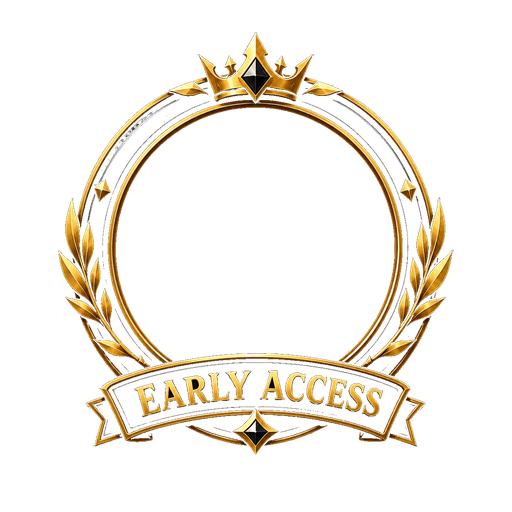
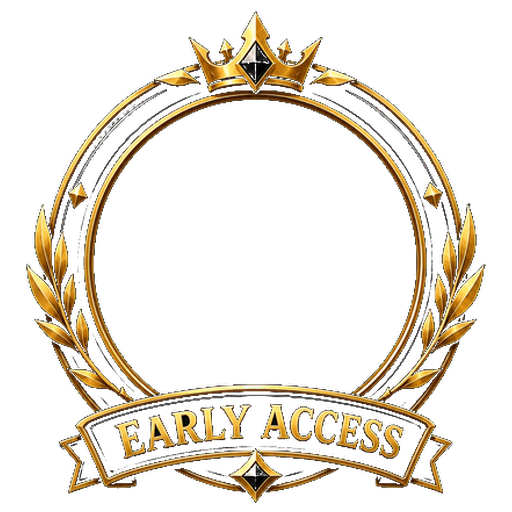
Add files via upload

Changed region(s): [[0.0312, 0.0312, 0.9688, 0.9688]]

diff --git a/app.js b/app.js
@@ -185,29 +185,50 @@ function renderRouletteHistory(){
 
 
 
+let FN_PUCHUN_BUSY=false;
 function puchun(){
-  const e=$("blackout");
-  if(e){
-    e.classList.add("puchun-active");
-    e.style.display="flex";
-  }
-  // The supplied 2.68s announcement is the only Puchun sound.
+  if(FN_PUCHUN_BUSY)return;
+  const e=$("blackout"),v=$("puchunVideo");
+  if(!e)return;
+  FN_PUCHUN_BUSY=true;
+  e.classList.add("puchun-active");
+  e.style.display="flex";
+  let finished=false;
+  const cleanup=()=>{
+    if(finished)return;
+    finished=true;
+    try{if(v){v.pause();v.currentTime=0;v.removeAttribute("data-playing")}}catch(_){ }
+    e.classList.remove("puchun-active");
+    e.style.display="none";
+    FN_PUCHUN_BUSY=false;
+    window.FN_PUCHUN_STOP=null;
+  };
+  window.FN_PUCHUN_STOP=cleanup;
+  const fallback=()=>{
+    if(finished)return;
+    try{
+      const au=new Audio("puchun_notice.mp3?v=4.2");
+      au.volume=.9;au.currentTime=0;au.play().catch(()=>{});
+    }catch(_){ }
+    setTimeout(cleanup,2900);
+  };
+  if(!v){fallback();return;}
   try{
-    const au=new Audio("puchun_notice.mp3?v=4.2");
-    au.volume=.9;
-    au.currentTime=0;
-    au.play().catch(()=>{});
-    au.addEventListener("ended",()=>{
-      if(e){e.classList.remove("puchun-active");e.style.display="none"}
-    },{once:true});
-    // Fallback in case mobile Safari does not fire ended.
-    setTimeout(()=>{
-      if(e){e.classList.remove("puchun-active");e.style.display="none"}
-    },2900);
-  }catch(err){
-    if(e){setTimeout(()=>{e.classList.remove("puchun-active");e.style.display="none"},2900)}
-  }
-  debugLog&&debugLog("AUDIO","PUCHUN",{file:"puchun_notice.mp3",blackout:true});
+    v.pause();v.currentTime=0;v.muted=false;v.volume=.9;
+    v.setAttribute("data-playing","1");
+    v.onended=cleanup;
+    v.onerror=()=>{v.onerror=null;fallback()};
+    const play=()=>{
+      if(finished)return;
+      try{
+        const p=v.play();
+        if(p&&typeof p.catch==="function")p.catch(()=>{v.onerror=null;fallback()});
+      }catch(_){v.onerror=null;fallback()}
+    };
+    setTimeout(play,120);
+    setTimeout(()=>{if(!finished)cleanup()},5000);
+  }catch(_){fallback()}
+  debugLog&&debugLog("AUDIO","PUCHUN",{file:"puchun_effect.mp4",blackout:true,video:true});
 }
 
 const CRASH_HISTORY_KEY="gb_crash_history_v1";
@@ -310,54 +331,63 @@ function renderCoinHistory(){
  el.innerHTML=rows.length?rows.map((x,i)=>`<div class="coin-history-row"><span>#${i+1} <small>${x.t||""}</small></span><b class="${x.win?"win":"lose"}">${String(x.side||"").toUpperCase()} • ${x.win?"WIN":"LOSE"}</b></div>`).join(""):`<div class="coin-history-empty">NO HISTORY</div>`;
 }
 function coinFlip(pick){
- if(window.GB_ACTION_BUSY)return;
- const b=wager($("bet")?.value);if(!b)return;
- const c=$("coin3d"),stage=$("coinFlipMotion"),res=$("res");
- if(!c||!stage||!res){window.GB_ACTION_BUSY=false;return}
- const head=c.querySelector(".coin-head"),tail=c.querySelector(".coin-tail");
- if(!head||!tail){window.GB_ACTION_BUSY=false;return}
- window.GB_ACTION_BUSY=true;
- const result=Math.random()<.5?"heads":"tails",win=result===pick;
- c.dataset.face="flipping"; c.style.transform="rotateY(0deg)";
- head.style.transform="rotateY(0deg) translateZ(2px)";
- tail.style.transform="rotateY(180deg) translateZ(2px)";
- head.style.opacity="1"; tail.style.opacity="1";
- head.style.visibility="visible"; tail.style.visibility="visible";
- stage.style.transform="translate3d(0,34px,0) scale(.92)";
- void stage.offsetWidth; res.textContent="FLIPPING…";
- const finalAngle=result==="tails"?2340:2160;
- const motion=stage.animate([
-  {transform:"translate3d(0,34px,0) scale(.92)"},
-  {transform:"translate3d(-34px,-20px,0) scale(1.02)"},
-  {transform:"translate3d(28px,-104px,0) scale(1.12)"},
-  {transform:"translate3d(-20px,-126px,0) scale(1.16)"},
-  {transform:"translate3d(22px,-66px,0) scale(1.09)"},
-  {transform:"translate3d(0,0,0) scale(1)"}
- ],{duration:2850,easing:"cubic-bezier(.15,.78,.17,1)",fill:"forwards"});
- const spin=c.animate([
-  {transform:"rotateY(0deg) rotateZ(-8deg)"},
-  {transform:"rotateY(720deg) rotateZ(8deg)"},
-  {transform:"rotateY(1440deg) rotateZ(-6deg)"},
-  {transform:`rotateY(${finalAngle}deg) rotateZ(0deg)`}
- ],{duration:2850,easing:"cubic-bezier(.15,.78,.17,1)",fill:"forwards"});
- sfx("flip");
- Promise.all([motion.finished,spin.finished]).then(()=>{
-  motion.cancel();spin.cancel();
-  c.dataset.face=result; c.style.transform=result==="tails"?"rotateY(180deg)":"rotateY(0deg)";
-  head.style.transform="rotateY(0deg) translateZ(2px)";
-  tail.style.transform="rotateY(180deg) translateZ(2px)";
-  head.style.opacity=result==="heads"?"1":"0"; tail.style.opacity=result==="tails"?"1":"0";
-  head.style.visibility=result==="heads"?"visible":"hidden"; tail.style.visibility=result==="tails"?"visible":"hidden";
-  res.textContent=`${result.toUpperCase()} — ${win?"WIN":"LOSE"}`;
-  writeCoinHistory({side:result,win});renderCoinHistory();
-  settle(b,win?b*2:0,"COIN TOSS");sfx(win?"win":"lose");
-  window.GB_ACTION_BUSY=false;
- }).catch(()=>{
-  try{motion.cancel();spin.cancel()}catch(_){}
-  c.dataset.face="heads"; c.style.transform="rotateY(0deg)";
-  head.style.opacity="1";head.style.visibility="visible";tail.style.opacity="0";tail.style.visibility="hidden";
-  window.GB_ACTION_BUSY=false;
- });
+  if(window.GB_ACTION_BUSY)return;
+  const b=wager($("bet")?.value);if(!b)return;
+  const c=$("coin3d"),stage=$("coinFlipMotion"),res=$("res");
+  if(!c||!stage||!res)return;
+  const head=c.querySelector(".coin-head"),tail=c.querySelector(".coin-tail");
+  if(!head||!tail)return;
+  window.GB_ACTION_BUSY=true;
+  const result=Math.random()<.5?"heads":"tails",win=result===pick;
+  let settled=false;
+  const resetBusy=()=>{window.GB_ACTION_BUSY=false};
+  const settleCoin=()=>{
+    if(settled)return;settled=true;
+    c.dataset.face=result;
+    c.style.transform=result==="tails"?"rotateY(180deg)":"rotateY(0deg)";
+    head.style.transform="rotateY(0deg) translateZ(58px)";
+    tail.style.transform="rotateY(180deg) translateZ(58px)";
+    head.style.opacity="1";tail.style.opacity="1";
+    head.style.visibility="visible";tail.style.visibility="visible";
+    res.textContent=`${result.toUpperCase()} — ${win?"WIN":"LOSE"}`;
+    writeCoinHistory({side:result,win});renderCoinHistory();
+    settle(b,win?b*2:0,"COIN TOSS");sfx(win?"win":"lose");resetBusy();
+  };
+  const failCoin=()=>{
+    if(settled)return;settled=true;
+    try{stage.getAnimations().forEach(x=>x.cancel());c.getAnimations().forEach(x=>x.cancel())}catch(_){ }
+    c.dataset.face="heads";c.style.transform="rotateY(0deg)";
+    head.style.transform="rotateY(0deg) translateZ(58px)";
+    tail.style.transform="rotateY(180deg) translateZ(58px)";
+    head.style.opacity="1";tail.style.opacity="1";
+    head.style.visibility="visible";tail.style.visibility="visible";
+    res.textContent="CHOOSE YOUR SIDE";resetBusy();
+  };
+  c.dataset.face="flipping";c.style.transform="rotateY(0deg)";
+  head.style.transform="rotateY(0deg) translateZ(58px)";
+  tail.style.transform="rotateY(180deg) translateZ(58px)";
+  head.style.opacity="1";tail.style.opacity="1";
+  head.style.visibility="visible";tail.style.visibility="visible";
+  stage.style.transform="translate3d(0,34px,0) scale(.92)";
+  void stage.offsetWidth;res.textContent="FLIPPING…";
+  const finalAngle=result==="tails"?1620:1440;
+  const motion=stage.animate([
+    {transform:"translate3d(0,34px,0) scale(.92)"},
+    {transform:"translate3d(-34px,-20px,0) scale(1.02)"},
+    {transform:"translate3d(28px,-104px,0) scale(1.12)"},
+    {transform:"translate3d(-20px,-126px,0) scale(1.16)"},
+    {transform:"translate3d(22px,-66px,0) scale(1.09)"},
+    {transform:"translate3d(0,0,0) scale(1)"}
+  ],{duration:2850,easing:"cubic-bezier(.15,.78,.17,1)",fill:"forwards"});
+  const spin=c.animate([
+    {transform:"rotateY(0deg) rotateZ(-8deg)"},
+    {transform:"rotateY(540deg) rotateZ(8deg)"},
+    {transform:"rotateY(1080deg) rotateZ(-6deg)"},
+    {transform:`rotateY(${finalAngle}deg) rotateZ(0deg)`}
+  ],{duration:2850,easing:"cubic-bezier(.15,.78,.17,1)",fill:"forwards"});
+  sfx("flip");
+  Promise.allSettled([motion.finished,spin.finished]).then(()=>settleCoin());
+  setTimeout(()=>{if(!settled)failCoin()},3600);
 }
 
 function pokerCard(c){return `<div class="poker-card">${c.r}${c.s}</div>`}
@@ -446,7 +476,7 @@ function openGame(g){
  try{if(typeof games[g]!=="function")throw new Error("Unknown game: "+g);games[g]();debugLog("GAME","Launch success",{game:g,token})}
  catch(e){debugLog("ERROR","Game launch failed",{game:g,error:String(e),stack:e.stack});$("modalContent").innerHTML=`<div class="game"><h2>GAME ERROR</h2><pre class="debug-error">${String(e.stack||e)}</pre></div>`}
 }
-function closeGame(){GB_GAME_TOKEN++;debugLog("RUNTIME","STOP",{game:GB_RUNTIME.game});window.GB_stopGameRuntime();$("modal").classList.add("hidden");const lobby=document.getElementById("appLobby");if(lobby)lobby.classList.remove("hidden");sfx("click")}
+function closeGame(){GB_GAME_TOKEN++;debugLog("RUNTIME","STOP",{game:GB_RUNTIME.game});window.GB_stopGameRuntime();if(window.FN_PUCHUN_BUSY&&typeof window.FN_PUCHUN_STOP==="function")window.FN_PUCHUN_STOP();$("modal").classList.add("hidden");const lobby=document.getElementById("appLobby");if(lobby)lobby.classList.remove("hidden");sfx("click")}
 function betbox(min=10,hideMax=false){
   const max=Math.max(min,S.coins||0);
   const step=max<=1000?10:max<=10000?100:500;
@@ -684,7 +714,7 @@ chohan(){
 coin(){
  $("gameBody").innerHTML=betbox()+`<div class="anim-game coin-game">
   <div class="anim-title">COIN TOSS</div>
-  <div class="coin-stage"><div id="coinFlipMotion" class="coin-flip-motion"><div id="coin3d" class="coin3d" data-face="heads"><div class="coin-face coin-head" aria-label="HEADS"><b>H</b><small>HEADS</small></div><div class="coin-face coin-tail" aria-label="TAILS"><b>T</b><small>TAILS</small></div></div></div></div>
+  <div class="coin-stage"><div id="coinFlipMotion" class="coin-flip-motion"><div id="coin3d" class="coin3d" data-face="heads"><div class="coin-edge" aria-hidden="true"></div><div class="coin-face coin-head" aria-label="HEADS"><b>H</b><small>HEADS</small></div><div class="coin-face coin-tail" aria-label="TAILS"><b>T</b><small>TAILS</small></div></div></div></div>
   <div class="coin-choices"><button onclick="coinFlip('heads')"><b>HEADS</b><small>GOLD SIDE</small></button><div class="coin-vs">VS</div><button onclick="coinFlip('tails')"><b>TAILS</b><small>BLACK SIDE</small></button></div>
   <div id="res" class="result coin-result">CHOOSE YOUR SIDE</div>
   <div class="coin-history"><div class="coin-history-head"><b>COIN FLIP HISTORY</b><small>LAST 5</small></div><div id="coinHistory"></div></div>
@@ -702,11 +732,12 @@ lottery(){
    <div id="lotteryResult" class="lottery-result">PRESS DRAW TO START</div>
   </div>
   <div class="lottery-prize-board">
-   <div class="lottery-board-title">PRIZE TABLE <small>TRUE DRAW ODDS</small></div>
-   <div class="lottery-prize-row jp"><span><b>JACKPOT</b><small>1 IN 2,000</small></span><strong>100,000</strong><em>0.05%</em></div>
-   <div class="lottery-prize-row gold"><span><b>GOLD</b><small>HIGH PRIZE</small></span><strong>10,000</strong><em>2.00%</em></div>
-   <div class="lottery-prize-row silver"><span><b>SILVER</b><small>SMALL PRIZE</small></span><strong>500</strong><em>13.00%</em></div>
-   <div class="lottery-prize-row lose"><span><b>MISS</b><small>NO PRIZE</small></span><strong>0</strong><em>84.95%</em></div>
+   <div class="lottery-board-title">当選確率の説明 <small>1回の抽選ごとの確率</small></div>
+   <div class="lottery-prize-row jp"><span><b>JACKPOT</b><small>2,000回に1回の割合</small></span><strong>100,000 COIN</strong><em>0.05%</em></div>
+   <div class="lottery-prize-row gold"><span><b>GOLD</b><small>1回の抽選で当たる確率</small></span><strong>10,000 COIN</strong><em>2.00%</em></div>
+   <div class="lottery-prize-row silver"><span><b>SILVER</b><small>1回の抽選で当たる確率</small></span><strong>500 COIN</strong><em>12.95%</em></div>
+   <div class="lottery-prize-row lose"><span><b>MISS</b><small>賞金なしになる確率</small></span><strong>0 COIN</strong><em>85.00%</em></div>
+   <div class="lottery-odds-note">※各数値は1回の抽選で、その結果になる確率です。累積確率ではありません。4つの結果を合計すると100.00%です。</div>
   </div>
   <div class="lottery-history"><div class="lottery-history-head"><b>RECENT DRAWS</b><small>LAST 5</small></div><div id="lotteryHistory"></div></div>
   <button class="lottery-draw" onclick="lottery()">DRAW LOTTERY</button>
@@ -1571,7 +1602,7 @@ window.addEventListener('fn-auth-changed',e=>{if(e.detail?.role==='admin')setTim
     content().querySelectorAll('.fn-admin-presets button').forEach(b=>b.onclick=()=>content().querySelector('#fnAdminAmount').value=b.dataset.a);content().querySelector('#fnAdminGrant').onclick=grant;
   }
   async function grant(){const c=content(),playerId=c.querySelector('#fnAdminPlayer').value.trim(),amount=Number(c.querySelector('#fnAdminAmount').value),note=c.querySelector('#fnAdminNote').value.trim();if(!playerId||!Number.isSafeInteger(amount)||amount===0){c.querySelector('#fnAdminBalance').textContent='INVALID INPUT';return}try{const d=await apiAdmin('/admin/grant',{method:'POST',body:JSON.stringify({playerId,amount,note})});c.querySelector('#fnAdminBalance').textContent='SUCCESS • BALANCE '+Number(d.balance).toLocaleString('ja-JP');if(playerId===FN_SERVER_PLAYER_ID){FN_SERVER_BALANCE=Number(d.balance);S.coins=FN_SERVER_BALANCE;localStorage.setItem(KEY,JSON.stringify(S));render()}}catch(e){c.querySelector('#fnAdminBalance').textContent='FAILED: '+e.message}}
-  async function items(){content().innerHTML='<h3>ITEM GRANT</h3><label>PLAYER NAME / ID</label><input id="fnItemPlayer" placeholder="PLAYER NAME or PLAYER ID"><label>ITEM</label><select id="fnItemId"><option value="frame:early_access">EARLY ACCESS FRAME</option><option value="frame:gold">GOLD FRAME</option><option value="frame:silver">SILVER FRAME</option><option value="frame:neon">NEON FRAME</option><option value="frame:royal">ROYAL FRAME</option></select><label>NOTE</label><input id="fnItemNote" maxlength="120" placeholder="EARLY ACCESS REWARD"><button class="fn-admin-grant" id="fnItemGrant">GRANT ITEM</button><div id="fnItemStatus"></div>';content().querySelector('#fnItemGrant').onclick=async()=>{const player=content().querySelector('#fnItemPlayer').value.trim(),itemId=content().querySelector('#fnItemId').value;if(!player){content().querySelector('#fnItemStatus').textContent='INVALID PLAYER';return}try{const d=await apiAdmin('/admin/item/grant',{method:'POST',body:JSON.stringify({playerId:player,itemId,note:content().querySelector('#fnItemNote').value.trim()})});content().querySelector('#fnItemStatus').textContent='SUCCESS • '+d.itemId+' → '+d.name}catch(e){content().querySelector('#fnItemStatus').textContent='FAILED: '+(e.message||e)}}}
+  async function items(){content().innerHTML='<h3>ITEM GRANT</h3><label>PLAYER NAME / ID</label><input id="fnItemPlayer" placeholder="PLAYER NAME or PLAYER ID"><label>ITEM</label><select id="fnItemId"><option value="frame:early_access">EARLY ACCESS FRAME</option><option value="frame:gold">GOLD FRAME</option><option value="frame:silver">SILVER FRAME</option><option value="frame:neon">NEON FRAME</option><option value="frame:royal">ROYAL FRAME</option><option value="frame:admin">ADMIN FRAME</option></select><label>NOTE</label><input id="fnItemNote" maxlength="120" placeholder="EARLY ACCESS REWARD"><button class="fn-admin-grant" id="fnItemGrant">GRANT ITEM</button><div id="fnItemStatus"></div>';content().querySelector('#fnItemGrant').onclick=async()=>{const player=content().querySelector('#fnItemPlayer').value.trim(),itemId=content().querySelector('#fnItemId').value;if(!player){content().querySelector('#fnItemStatus').textContent='INVALID PLAYER';return}try{const d=await apiAdmin('/admin/item/grant',{method:'POST',body:JSON.stringify({playerId:player,itemId,note:content().querySelector('#fnItemNote').value.trim()})});content().querySelector('#fnItemStatus').textContent='SUCCESS • '+d.itemId+' → '+d.name}catch(e){content().querySelector('#fnItemStatus').textContent='FAILED: '+(e.message||e)}}}
   async function logs(){try{const d=await apiAdmin('/admin/logs');content().innerHTML='<h3>ADMIN LOGS</h3><pre class="fn-admin-logbox">'+((d.logs||[]).map(x=>new Date(x.created_at).toLocaleString('ja-JP')+'  '+x.target_player_id+'  '+(x.amount>0?'+':'')+x.amount+'  '+x.note).join('\n')||'NO ADMIN LOGS')+'</pre>'}catch(e){content().textContent='FAILED: '+e.message}}
   async function games(){try{const [g,m]=await Promise.all([apiAdmin('/admin/games'),apiAdmin('/admin/stats')]);content().innerHTML='<h3>GAME CONTROL</h3><div class="fn-admin-control danger"><span>GLOBAL MAINTENANCE / EMERGENCY</span><b>'+((m.maintenance)?'ON':'OFF')+'</b><button id="fnGlobalMaint">'+(m.maintenance?'RELEASE ALL':'STOP ALL')+'</button></div><div class="fn-admin-game-list">'+(g.games||[]).map(x=>'<div class="fn-admin-control"><span>'+String(x.game_type).toUpperCase()+'</span><small>ENABLED '+(x.enabled?'YES':'NO')+' • MAINT '+(x.maintenance?'ON':'OFF')+'</small><button data-game-toggle="'+x.game_type+'" data-enabled="'+(x.enabled?0:1)+'">'+(x.enabled?'DISABLE':'ENABLE')+'</button><button data-game-maint="'+x.game_type+'" data-maint="'+(x.maintenance?0:1)+'">'+(x.maintenance?'RELEASE':'MAINTENANCE')+'</button></div>').join('')+'</div><p class="fn-admin-note">Game state is server-authoritative. Poker online room base is Phase 1; the actual multiplayer poker engine is Phase 2.</p>';content().querySelector('#fnGlobalMaint').onclick=()=>toggleMaintenance(!m.maintenance);content().querySelectorAll('[data-game-toggle]').forEach(b=>b.onclick=()=>setGame(b.dataset.game,!!Number(b.dataset.enabled),null));content().querySelectorAll('[data-game-maint]').forEach(b=>b.onclick=()=>setGame(b.dataset.game,null,!!Number(b.dataset.maint)))}catch(e){content().textContent='FAILED: '+e.message}}
   async function setGame(gameType,enabled,maintenance){try{const cur=(await apiAdmin('/admin/games')).games.find(x=>x.game_type===gameType)||{};await apiAdmin('/admin/games',{method:'POST',body:JSON.stringify({gameType,enabled:enabled===null?!!cur.enabled:enabled,maintenance:maintenance===null?!!cur.maintenance:maintenance})});games()}catch(e){content().innerHTML='<div class="fn-admin-error">FAILED: '+(e.message||e)+'</div>'}}
@@ -1599,7 +1630,7 @@ function esc(v){return String(v??'').replace(/[&<>\"']/g,c=>({'&':'&amp;','<':'&
     try{const d=await window.FN_API_REQUEST('/profile/settings',{},tok); if(d.settings){const x=Object.assign({},prof(),d.settings);saveProf(x);renderProfile();}}catch(_){}
   }
   function showLobby(){document.getElementById('appSplash')?.classList.add('hide');document.getElementById('appLobby')?.classList.remove('hidden');renderProfile();syncProfileSettings()}
-  function renderProfile(){const p=prof();const n=document.getElementById('playerName'),a=document.getElementById('avatarText'),m=document.getElementById('profileMeta');if(n)n.textContent=p.name;if(a){a.textContent=p.icon||'♠';a.dataset.frame=p.frame||'classic';}const af=document.getElementById('avatarFrame');if(af){af.hidden=p.frame!=='early_access';af.src='early_access_frame.png';}if(m)m.textContent=p.name+' • LV.'+(Math.floor((p.games||0)/10)+1)}
+  function renderProfile(){const p=prof();const frame=p.frame||'classic';const n=document.getElementById('playerName'),a=document.getElementById('avatarText'),m=document.getElementById('profileMeta');if(n)n.textContent=p.name;if(a){a.textContent=p.icon||'♠';a.dataset.frame=frame;}const af=document.getElementById('avatarFrame');if(af){const src=frame==='early_access'?'early_access_frame.png':frame==='admin'?'admin_frame.png':'';af.hidden=!src;if(src)af.src=src;af.className='avatar-frame'+(src?' frame-'+frame:'');}if(m)m.textContent=p.name+' • LV.'+(Math.floor((p.games||0)/10)+1)}
   async function start(){if(window.__FN_LOADING)return;window.__FN_LOADING=true;const b=document.getElementById('tapStart'),box=document.getElementById('loadBox'),bar=document.getElementById('loadFill'),pct=document.getElementById('loadPct'),txt=document.getElementById('loadText'),detail=document.getElementById('loadDetail');b.disabled=true;b.classList.add('hidden');box.classList.remove('hidden');const assets=['style.css','app.js','click.wav','chip.wav','card.wav','spin.wav','roulette.wav','dice.wav','flip.wav','win.wav','lose.wav','jackpot.wav','crash.wav'];for(let i=0;i<assets.length;i++){txt.textContent=i<3?'INITIALIZING':i<assets.length-2?'LOADING ASSETS':'FINALIZING';detail.textContent='Loading '+assets[i];try{await fetch(assets[i],{cache:'no-store'})}catch(e){try{debugLog('WARN','ASSET LOAD WARNING',{asset:assets[i]})}catch(_){} }const q=Math.round((i+1)/assets.length*100);bar.style.width=q+'%';pct.textContent=q+'%';await new Promise(r=>setTimeout(r,55))}txt.textContent='READY';detail.textContent='GAME RUNTIME ONLINE';await new Promise(r=>setTimeout(r,350));showLobby()}
   async function fnApi(path,opts={}){
     if(typeof window.FN_API_REQUEST!=='function')throw new Error('AUTH_API_NOT_READY');
@@ -1622,8 +1653,8 @@ function esc(v){return String(v??'').replace(/[&<>\"']/g,c=>({'&':'&amp;','<':'&
     o.classList.remove('hidden');
     if(type==='profile'){
       const x=prof();
-      p.innerHTML='<h2>PROFILE & SETTINGS</h2><label>PLAYER NAME</label><input id="pname" maxlength="16" value="'+esc(x.name)+'" readonly><div class="fn-setting-grid"><label>ICON<select id="picon"><option>♠</option><option>♦</option><option>♣</option><option>♥</option><option>★</option><option>◆</option><option>●</option><option>♛</option></select></label><label>FRAME<select id="pframe"><option value="classic">CLASSIC</option><option value="gold">GOLD</option><option value="silver">SILVER</option><option value="neon">NEON</option><option value="royal">ROYAL</option></select></label><label>LANGUAGE<select id="plang"><option value="ja">日本語</option><option value="en">English</option></select></label></div><label class="fn-check"><input id="psound" type="checkbox"> SOUND</label><label class="fn-check"><input id="pnotify" type="checkbox"> NOTIFICATIONS</label><label class="fn-check"><input id="ponline" type="checkbox"> SHOW ONLINE STATUS</label><label class="fn-check"><input id="pmotion" type="checkbox"> REDUCED MOTION</label><div class="socialActions"><button class="primary" id="saveP">SAVE SETTINGS</button><button id="closeP">CLOSE</button></div><div id="profileStatus"></div>';
-      const ownedFrames=Array.isArray(x.ownedFrames)?x.ownedFrames:[];if(ownedFrames.includes('early_access')){const sel=document.getElementById('pframe');const o=document.createElement('option');o.value='early_access';o.textContent='EARLY ACCESS';sel.appendChild(o);}document.getElementById('picon').value=x.icon||'♠';document.getElementById('pframe').value=x.frame||'classic';document.getElementById('plang').value=x.language||'ja';document.getElementById('psound').checked=x.sound!==false;document.getElementById('pnotify').checked=x.notifications!==false;document.getElementById('ponline').checked=x.onlineStatus!==false;document.getElementById('pmotion').checked=!!x.reducedMotion;
+      p.innerHTML='<h2>PROFILE & SETTINGS</h2><label>PLAYER NAME</label><input id="pname" maxlength="16" value="'+esc(x.name)+'" readonly><div class="fn-setting-grid"><label>ICON<select id="picon"><option>♠</option><option>♦</option><option>♣</option><option>♥</option><option>★</option><option>◆</option><option>●</option><option>♛</option></select></label><label>FRAME<select id="pframe"><option value="classic">CLASSIC</option></select></label><label>LANGUAGE<select id="plang"><option value="ja">日本語</option><option value="en">English</option></select></label></div><label class="fn-check"><input id="psound" type="checkbox"> SOUND</label><label class="fn-check"><input id="pnotify" type="checkbox"> NOTIFICATIONS</label><label class="fn-check"><input id="ponline" type="checkbox"> SHOW ONLINE STATUS</label><label class="fn-check"><input id="pmotion" type="checkbox"> REDUCED MOTION</label><div class="socialActions"><button class="primary" id="saveP">SAVE SETTINGS</button><button id="closeP">CLOSE</button></div><div id="profileStatus"></div>';
+      const ownedFrames=Array.isArray(x.ownedFrames)?x.ownedFrames:[];const frameLabels={gold:'GOLD',silver:'SILVER',neon:'NEON',royal:'ROYAL',early_access:'EARLY ACCESS',admin:'ADMIN'};['gold','silver','neon','royal','early_access','admin'].forEach(frame=>{if(ownedFrames.includes(frame)){const sel=document.getElementById('pframe'),o=document.createElement('option');o.value=frame;o.textContent=frameLabels[frame];sel.appendChild(o);}});document.getElementById('picon').value=x.icon||'♠';document.getElementById('pframe').value=x.frame||'classic';document.getElementById('plang').value=x.language||'ja';document.getElementById('psound').checked=x.sound!==false;document.getElementById('pnotify').checked=x.notifications!==false;document.getElementById('ponline').checked=x.onlineStatus!==false;document.getElementById('pmotion').checked=!!x.reducedMotion;
       document.getElementById('saveP').onclick=async()=>{x.icon=document.getElementById('picon').value;x.frame=document.getElementById('pframe').value;x.language=document.getElementById('plang').value;x.sound=document.getElementById('psound').checked;x.notifications=document.getElementById('pnotify').checked;x.onlineStatus=document.getElementById('ponline').checked;x.reducedMotion=document.getElementById('pmotion').checked;saveProf(x);renderProfile();try{const tok=(window.__FN_AUTH_ROLE==='admin'?(localStorage.getItem('FN_ADMIN_TOKEN')||''):(localStorage.getItem('FN_PLAYER_TOKEN')||''));await window.FN_API_REQUEST('/profile/settings',{method:'POST',body:JSON.stringify({icon:x.icon,frame:x.frame,language:x.language,sound:x.sound,notifications:x.notifications,onlineStatus:x.onlineStatus,reducedMotion:x.reducedMotion})},tok);document.getElementById('profileStatus').textContent='SAVED TO SERVER'}catch(e){document.getElementById('profileStatus').textContent='LOCAL SAVED • SERVER SYNC FAILED'} };
       document.getElementById('closeP').onclick=()=>o.classList.add('hidden');
     }else if(type==='friends'){

diff --git a/style.css b/style.css
@@ -321,7 +321,7 @@
 }
 
 /* APP TITLE + LOBBY */
-.appSplash{position:fixed;inset:0;z-index:10000;display:flex;flex-direction:column;align-items:center;justify-content:center;background:radial-gradient(circle at 50% 35%,#292113 0,#0d0e0e 35%,#030405 75%);color:#f5f3ed;text-align:center;overflow:hidden;transition:opacity .45s,visibility .45s}.appSplash.hide{opacity:0;visibility:hidden;pointer-events:none}.splashGlow{position:absolute;width:70vw;height:70vw;max-width:500px;max-height:500px;border-radius:50%;background:radial-gradient(circle,rgba(220,183,82,.13),transparent 65%);filter:blur(10px)}.splashLogo{position:relative;width:76px;height:76px;border:1px solid #a9853b;border-radius:50%;display:grid;place-items:center;background:#0b0c0c;box-shadow:0 0 50px rgba(220,183,82,.15)}.splashLogo span{font:900 25px Orbitron;color:#e1c26b}.appSplash .splashKicker{position:relative;margin-top:18px;font:800 9px Orbitron;letter-spacing:5px;color:#a58d5a}.appSplash h1{position:relative;margin:10px 0 0;font:900 clamp(42px,12vw,68px)/.9 Orbitron;letter-spacing:-3px}.appSplash h1 em{color:#e1c26b;font-style:normal}.appSplash p{position:relative;margin:15px 0;color:#656b6e;font:800 7px Orbitron;letter-spacing:3px}.appSplash button{position:relative;width:min(360px,82vw);min-height:58px;margin-top:30px;border:0;border-radius:8px;background:linear-gradient(135deg,#ead18a,#aa8131);color:#080806;font:900 12px Orbitron;box-shadow:0 14px 40px rgba(220,183,82,.18)}.loadBox{position:relative;width:min(360px,82vw);margin-top:26px;text-align:left}.loadBox>div:first-child{display:flex;justify-content:space-between;font:800 7px Orbitron;color:#8c9294}.loadBox strong{color:#e0c36d}.loadTrack{height:6px;margin-top:8px;background:#17191b;border-radius:10px;overflow:hidden}.loadTrack i{display:block;width:0;height:100%;background:linear-gradient(90deg,#85601f,#f0d47d);transition:width .15s}.loadBox small{display:block;margin-top:8px;color:#555b5e;font:700 7px Orbitron}.appSplash footer{position:absolute;bottom:18px;color:#4e5457;font:700 7px Orbitron;letter-spacing:1px}.appLobby{position:fixed;inset:0;z-index:9000;overflow:auto;background:#030405;color:#eee;padding:env(safe-area-inset-top) 12px calc(20px + env(safe-area-inset-bottom));-webkit-overflow-scrolling:touch}.lobbyBar{height:58px;display:grid;grid-template-columns:1fr auto 1fr;align-items:center}.lobbyBar b{font:900 12px Orbitron;letter-spacing:2px;text-align:center}.lobbyBar b span{color:#dfc06a;font-weight:500}.lobbyBar b small{display:block;color:#5f6466;font:700 6px Orbitron;letter-spacing:2px;margin-top:3px}.lobbyBar button{min-height:36px;background:#0c0e10;border:1px solid #292d31;border-radius:7px;color:#c7c9ca;font:800 7px Orbitron}.lobbyBar button:last-child{justify-self:end}.welcome{max-width:720px;margin:auto;display:grid;grid-template-columns:minmax(0,1fr) auto 92px;gap:18px;align-items:center;padding:22px 4px;border-bottom:1px solid #222528}.welcomeBalance{min-width:126px;padding:11px 14px;border:1px solid #6b5730;border-radius:10px;background:linear-gradient(145deg,#14130f,#08090a);box-shadow:0 8px 24px rgba(0,0,0,.28);text-align:center}.welcomeBalance small{display:block;color:#77716a;font:800 6px Orbitron;letter-spacing:2px}.welcomeBalance b{display:block;margin-top:4px;color:#e7ca72;font:900 15px Orbitron;white-space:nowrap}.welcomeBalance em{display:block;margin-top:3px;color:#555b5e;font:700 6px Orbitron;font-style:normal;letter-spacing:2px}.welcome>div>small{color:#a5894c;font:800 7px Orbitron;letter-spacing:2px}.welcome h2{margin:7px 0;font:900 clamp(28px,8vw,48px)/.95 Orbitron;letter-spacing:-2px}.welcome h2 em{font-style:normal;color:#dfc16b}.welcome p{color:#6c7275;font-size:10px}.avatar{width:90px;height:90px;border:1px solid #68552c;border-radius:50%;display:flex;flex-direction:column;align-items:center;justify-content:center;background:radial-gradient(circle,#272114,#090a0b 68%)}.avatar{position:relative;overflow:hidden}.avatar-frame{position:absolute;inset:0;width:100%;height:100%;object-fit:contain;object-position:50% 50%;display:block;margin:0;padding:0;z-index:1;pointer-events:none}.avatar>#avatarText,.avatar>#playerName,.avatar>small{position:relative;z-index:2}.avatar span{width:40px;height:40px;border-radius:50%;display:grid;place-items:center;border:1px solid #9a7c3c;color:#e4c771;font:900 11px Orbitron}.avatar b{font:800 7px Orbitron;margin-top:5px}.avatar small{font:700 6px Orbitron;color:#63dc91;margin-top:4px}.appLobby nav{max-width:720px;margin:0 auto 12px;display:flex;overflow:auto;border:0;padding:10px 0;gap:5px}.appLobby nav button{flex:0 0 auto;background:#0a0c0e;border:1px solid #25282b;border-radius:7px;color:#666c70;padding:9px 12px;font:800 7px Orbitron}.appLobby nav button.active{color:#e2c46e;border-color:#735c2e}.lobbyGrid{max-width:720px;margin:auto;display:grid;grid-template-columns:repeat(2,1fr);gap:8px}.lobbyGrid button{min-height:145px;position:relative;display:flex;flex-direction:column;align-items:flex-start;justify-content:flex-end;padding:14px;text-align:left;border:1px solid #22262a;border-radius:9px;background:linear-gradient(145deg,#111315,#090a0b);color:#eee;overflow:hidden}.lobbyGrid button:before{content:"";position:absolute;inset:-50% 25% 40% -30%;background:radial-gradient(circle,rgba(224,191,101,.1),transparent 68%)}.lobbyGrid button i{font:900 38px Orbitron;color:#dfc16b;font-style:normal;line-height:1;margin-bottom:auto;position:relative}.lobbyGrid button b,.lobbyGrid button small,.lobbyGrid button em{position:relative}.lobbyGrid button b{font:900 10px Orbitron}.lobbyGrid button small{margin-top:5px;color:#666c70;font:700 6px Orbitron}.lobbyGrid button em{margin-top:10px;color:#dfc16b;font:800 7px Orbitron;font-style:normal}.lobbyTools{max-width:720px;margin:9px auto 0;display:grid;grid-template-columns:1fr 1fr;gap:8px}.lobbyTools button{min-height:85px;padding:12px;text-align:left;background:#0b0d0f;border:1px solid #25292c;border-radius:8px;color:#eee}.lobbyTools small,.lobbyTools span{display:block;color:#656b6e;font:700 6px Orbitron}.lobbyTools b{display:block;margin:7px 0;font:800 9px Orbitron}.socialOverlay{position:fixed;inset:0;z-index:12000;background:#000b;display:grid;place-items:center;padding:15px}.socialPanel{width:min(500px,100%);background:#11110e;border:1px solid #6b5730;border-radius:10px;padding:18px}.socialPanel h2{font:900 19px Orbitron;color:#e0c36d}.socialPanel label{display:block;color:#666c70;font:700 7px Orbitron;margin:12px 0 5px}.socialPanel input{width:100%;min-height:44px;background:#080a0c;border:1px solid #303439;border-radius:6px;color:#eee;padding:9px}.socialActions{display:flex;gap:7px;margin-top:12px}.socialActions button{flex:1;min-height:44px;border:1px solid #4d4026;border-radius:7px;background:#15130d;color:#dfc16b;font:800 8px Orbitron}.socialActions .primary{background:linear-gradient(#e4c879,#ae8635);color:#090806;border:0}.roomCode{margin:14px 0;padding:16px;border:1px dashed #6d5830;border-radius:8px;text-align:center}.roomCode strong{display:block;color:#e7cd79;font:900 22px Orbitron;letter-spacing:4px}.roomCode small{color:#666d70;font:700 6px Orbitron}
+.appSplash{position:fixed;inset:0;z-index:10000;display:flex;flex-direction:column;align-items:center;justify-content:center;background:radial-gradient(circle at 50% 35%,#292113 0,#0d0e0e 35%,#030405 75%);color:#f5f3ed;text-align:center;overflow:hidden;transition:opacity .45s,visibility .45s}.appSplash.hide{opacity:0;visibility:hidden;pointer-events:none}.splashGlow{position:absolute;width:70vw;height:70vw;max-width:500px;max-height:500px;border-radius:50%;background:radial-gradient(circle,rgba(220,183,82,.13),transparent 65%);filter:blur(10px)}.splashLogo{position:relative;width:76px;height:76px;border:1px solid #a9853b;border-radius:50%;display:grid;place-items:center;background:#0b0c0c;box-shadow:0 0 50px rgba(220,183,82,.15)}.splashLogo span{font:900 25px Orbitron;color:#e1c26b}.appSplash .splashKicker{position:relative;margin-top:18px;font:800 9px Orbitron;letter-spacing:5px;color:#a58d5a}.appSplash h1{position:relative;margin:10px 0 0;font:900 clamp(42px,12vw,68px)/.9 Orbitron;letter-spacing:-3px}.appSplash h1 em{color:#e1c26b;font-style:normal}.appSplash p{position:relative;margin:15px 0;color:#656b6e;font:800 7px Orbitron;letter-spacing:3px}.appSplash button{position:relative;width:min(360px,82vw);min-height:58px;margin-top:30px;border:0;border-radius:8px;background:linear-gradient(135deg,#ead18a,#aa8131);color:#080806;font:900 12px Orbitron;box-shadow:0 14px 40px rgba(220,183,82,.18)}.loadBox{position:relative;width:min(360px,82vw);margin-top:26px;text-align:left}.loadBox>div:first-child{display:flex;justify-content:space-between;font:800 7px Orbitron;color:#8c9294}.loadBox strong{color:#e0c36d}.loadTrack{height:6px;margin-top:8px;background:#17191b;border-radius:10px;overflow:hidden}.loadTrack i{display:block;width:0;height:100%;background:linear-gradient(90deg,#85601f,#f0d47d);transition:width .15s}.loadBox small{display:block;margin-top:8px;color:#555b5e;font:700 7px Orbitron}.appSplash footer{position:absolute;bottom:18px;color:#4e5457;font:700 7px Orbitron;letter-spacing:1px}.appLobby{position:fixed;inset:0;z-index:9000;overflow:auto;background:#030405;color:#eee;padding:env(safe-area-inset-top) 12px calc(20px + env(safe-area-inset-bottom));-webkit-overflow-scrolling:touch}.lobbyBar{height:58px;display:grid;grid-template-columns:1fr auto 1fr;align-items:center}.lobbyBar b{font:900 12px Orbitron;letter-spacing:2px;text-align:center}.lobbyBar b span{color:#dfc06a;font-weight:500}.lobbyBar b small{display:block;color:#5f6466;font:700 6px Orbitron;letter-spacing:2px;margin-top:3px}.lobbyBar button{min-height:36px;background:#0c0e10;border:1px solid #292d31;border-radius:7px;color:#c7c9ca;font:800 7px Orbitron}.lobbyBar button:last-child{justify-self:end}.welcome{max-width:720px;margin:auto;display:grid;grid-template-columns:minmax(0,1fr) auto 92px;gap:18px;align-items:center;padding:22px 4px;border-bottom:1px solid #222528}.welcomeBalance{min-width:126px;padding:11px 14px;border:1px solid #6b5730;border-radius:10px;background:linear-gradient(145deg,#14130f,#08090a);box-shadow:0 8px 24px rgba(0,0,0,.28);text-align:center}.welcomeBalance small{display:block;color:#77716a;font:800 6px Orbitron;letter-spacing:2px}.welcomeBalance b{display:block;margin-top:4px;color:#e7ca72;font:900 15px Orbitron;white-space:nowrap}.welcomeBalance em{display:block;margin-top:3px;color:#555b5e;font:700 6px Orbitron;font-style:normal;letter-spacing:2px}.welcome>div>small{color:#a5894c;font:800 7px Orbitron;letter-spacing:2px}.welcome h2{margin:7px 0;font:900 clamp(28px,8vw,48px)/.95 Orbitron;letter-spacing:-2px}.welcome h2 em{font-style:normal;color:#dfc16b}.welcome p{color:#6c7275;font-size:10px}.avatar{width:90px;height:90px;border:1px solid #68552c;border-radius:50%;display:flex;flex-direction:column;align-items:center;justify-content:center;background:radial-gradient(circle,#272114,#090a0b 68%)}.avatar span{width:40px;height:40px;border-radius:50%;display:grid;place-items:center;border:1px solid #9a7c3c;color:#e4c771;font:900 11px Orbitron}.avatar b{font:800 7px Orbitron;margin-top:5px}.avatar small{font:700 6px Orbitron;color:#63dc91;margin-top:4px}.appLobby nav{max-width:720px;margin:0 auto 12px;display:flex;overflow:auto;border:0;padding:10px 0;gap:5px}.appLobby nav button{flex:0 0 auto;background:#0a0c0e;border:1px solid #25282b;border-radius:7px;color:#666c70;padding:9px 12px;font:800 7px Orbitron}.appLobby nav button.active{color:#e2c46e;border-color:#735c2e}.lobbyGrid{max-width:720px;margin:auto;display:grid;grid-template-columns:repeat(2,1fr);gap:8px}.lobbyGrid button{min-height:145px;position:relative;display:flex;flex-direction:column;align-items:flex-start;justify-content:flex-end;padding:14px;text-align:left;border:1px solid #22262a;border-radius:9px;background:linear-gradient(145deg,#111315,#090a0b);color:#eee;overflow:hidden}.lobbyGrid button:before{content:"";position:absolute;inset:-50% 25% 40% -30%;background:radial-gradient(circle,rgba(224,191,101,.1),transparent 68%)}.lobbyGrid button i{font:900 38px Orbitron;color:#dfc16b;font-style:normal;line-height:1;margin-bottom:auto;position:relative}.lobbyGrid button b,.lobbyGrid button small,.lobbyGrid button em{position:relative}.lobbyGrid button b{font:900 10px Orbitron}.lobbyGrid button small{margin-top:5px;color:#666c70;font:700 6px Orbitron}.lobbyGrid button em{margin-top:10px;color:#dfc16b;font:800 7px Orbitron;font-style:normal}.lobbyTools{max-width:720px;margin:9px auto 0;display:grid;grid-template-columns:1fr 1fr;gap:8px}.lobbyTools button{min-height:85px;padding:12px;text-align:left;background:#0b0d0f;border:1px solid #25292c;border-radius:8px;color:#eee}.lobbyTools small,.lobbyTools span{display:block;color:#656b6e;font:700 6px Orbitron}.lobbyTools b{display:block;margin:7px 0;font:800 9px Orbitron}.socialOverlay{position:fixed;inset:0;z-index:12000;background:#000b;display:grid;place-items:center;padding:15px}.socialPanel{width:min(500px,100%);background:#11110e;border:1px solid #6b5730;border-radius:10px;padding:18px}.socialPanel h2{font:900 19px Orbitron;color:#e0c36d}.socialPanel label{display:block;color:#666c70;font:700 7px Orbitron;margin:12px 0 5px}.socialPanel input{width:100%;min-height:44px;background:#080a0c;border:1px solid #303439;border-radius:6px;color:#eee;padding:9px}.socialActions{display:flex;gap:7px;margin-top:12px}.socialActions button{flex:1;min-height:44px;border:1px solid #4d4026;border-radius:7px;background:#15130d;color:#dfc16b;font:800 8px Orbitron}.socialActions .primary{background:linear-gradient(#e4c879,#ae8635);color:#090806;border:0}.roomCode{margin:14px 0;padding:16px;border:1px dashed #6d5830;border-radius:8px;text-align:center}.roomCode strong{display:block;color:#e7cd79;font:900 22px Orbitron;letter-spacing:4px}.roomCode small{color:#666d70;font:700 6px Orbitron}
 @media(max-width:600px){header,.ticker,body>main,body>footer{display:none!important}.lobbyGrid{gap:7px}.lobbyGrid button{min-height:136px}.lobbyTools{grid-template-columns:1fr 1fr}.tabletop{padding-bottom:max(12px,env(safe-area-inset-bottom))}.game button,.choices button{min-height:44px;touch-action:manipulation}}
 
 /* APP SHELL HARDENING v4.7.17 */
@@ -3922,3 +3922,22 @@ html,body{width:100%;max-width:100%;overflow-x:hidden}
 #modal .lottery-prize-row.lose b,#modal .lottery-prize-row.lose strong{color:#d17a82}
 #modal .lottery-draw{padding:12px 30px!important;border-radius:6px!important;background:linear-gradient(180deg,#2a2418,#0b0b0a)!important;border:1px solid #b99036!important;color:#e0c36b!important;font:900 10px Orbitron!important;cursor:pointer!important;box-shadow:inset 0 1px rgba(255,245,193,.14),0 7px 18px rgba(0,0,0,.55)!important}
 #modal .lottery-draw:disabled{opacity:.45!important;cursor:not-allowed!important}
+
+/* ===== FN targeted fixes: profile frames / puchun video / coin 3D / lottery odds ===== */
+.avatar{position:relative;overflow:visible}
+.avatar-frame{position:absolute;z-index:1;pointer-events:none;display:block;border:0;margin:0;padding:0;object-fit:fill;object-position:50% 50%;max-width:none}
+.avatar-frame.frame-early_access{width:110%;height:100%;left:-5%;top:0}
+.avatar-frame.frame-admin{width:100%;height:100%;left:0;top:0}
+.avatar>span,.avatar>b,.avatar>small{position:relative;z-index:2}
+#blackout.puchun-active{display:flex!important;background:#000!important}
+#blackout #puchunVideo{display:none;width:min(696px,92vw);height:auto;max-height:88vh;object-fit:contain;background:#000;outline:0}
+#blackout.puchun-active #puchunVideo{display:block}
+#modal .coin3d{transform-style:preserve-3d!important;perspective:1200px!important}
+#modal .coin3d .coin-face{opacity:1!important;visibility:visible!important;backface-visibility:hidden!important;transform-style:preserve-3d!important}
+#modal .coin3d .coin-head{transform:rotateY(0deg) translateZ(58px)!important}
+#modal .coin3d .coin-tail{transform:rotateY(180deg) translateZ(58px)!important}
+#modal .coin3d[data-face="heads"] .coin-head,#modal .coin3d[data-face="heads"] .coin-tail,#modal .coin3d[data-face="tails"] .coin-head,#modal .coin3d[data-face="tails"] .coin-tail,#modal .coin3d[data-face="flipping"] .coin-head,#modal .coin3d[data-face="flipping"] .coin-tail{opacity:1!important;visibility:visible!important}
+#modal .coin3d .coin-edge{position:absolute;left:50%;top:50%;width:116px;height:12px;transform:translate(-50%,-50%) rotateX(90deg) translateZ(58px);border-radius:999px;background:linear-gradient(90deg,#8b6923,#f0d47b,#8b6923);opacity:.95;pointer-events:none;z-index:0}
+#modal .lottery-board-title small{display:block;margin-top:4px;color:#777;font-size:7px;letter-spacing:1px}
+#modal .lottery-odds-note{padding:10px 14px 12px;text-align:left;color:#888;font-size:10px;line-height:1.65;border-top:1px solid #1e2024}
+@media(max-width:520px){.avatar-frame.frame-early_access{width:110%;height:100%;left:-5%;top:0}.avatar-frame.frame-admin{width:100%;height:100%;left:0;top:0}#modal .lottery-prize-row{grid-template-columns:minmax(0,1fr) auto 62px;gap:6px;padding:10px 9px}#modal .lottery-prize-row b{font-size:9px}#modal .lottery-prize-row small{font-size:6px}#modal .lottery-prize-row strong{font-size:10px}#modal .lottery-prize-row em{font-size:8px}.lottery-odds-note{font-size:9px!important}}

diff --git a/index.html b/index.html
@@ -6,7 +6,7 @@
 </head>
 <body>
 
-<div id="blackout" aria-hidden="true"></div>
+<div id="blackout" aria-hidden="true"><video id="puchunVideo" preload="auto" playsinline webkit-playsinline disablepictureinpicture src="puchun_effect.mp4"></video></div>
 <header><div class="logo">FORTUNE <span>NORI</span><small>FN</small></div><div class="topstats"><span>● ONLINE</span><b>💎 <em id="coins">10000</em></b><button onclick="toggleSound()" id="sound">🔊</button></div></header>
 <div class="ticker"><span>LIVE</span><div>JACKPOT LIVE　•••　VIRTUAL COINS ONLY　•••　GOOD LUCK　•••　BIG WIN CHANCE　•••</div></div>
 <main>
